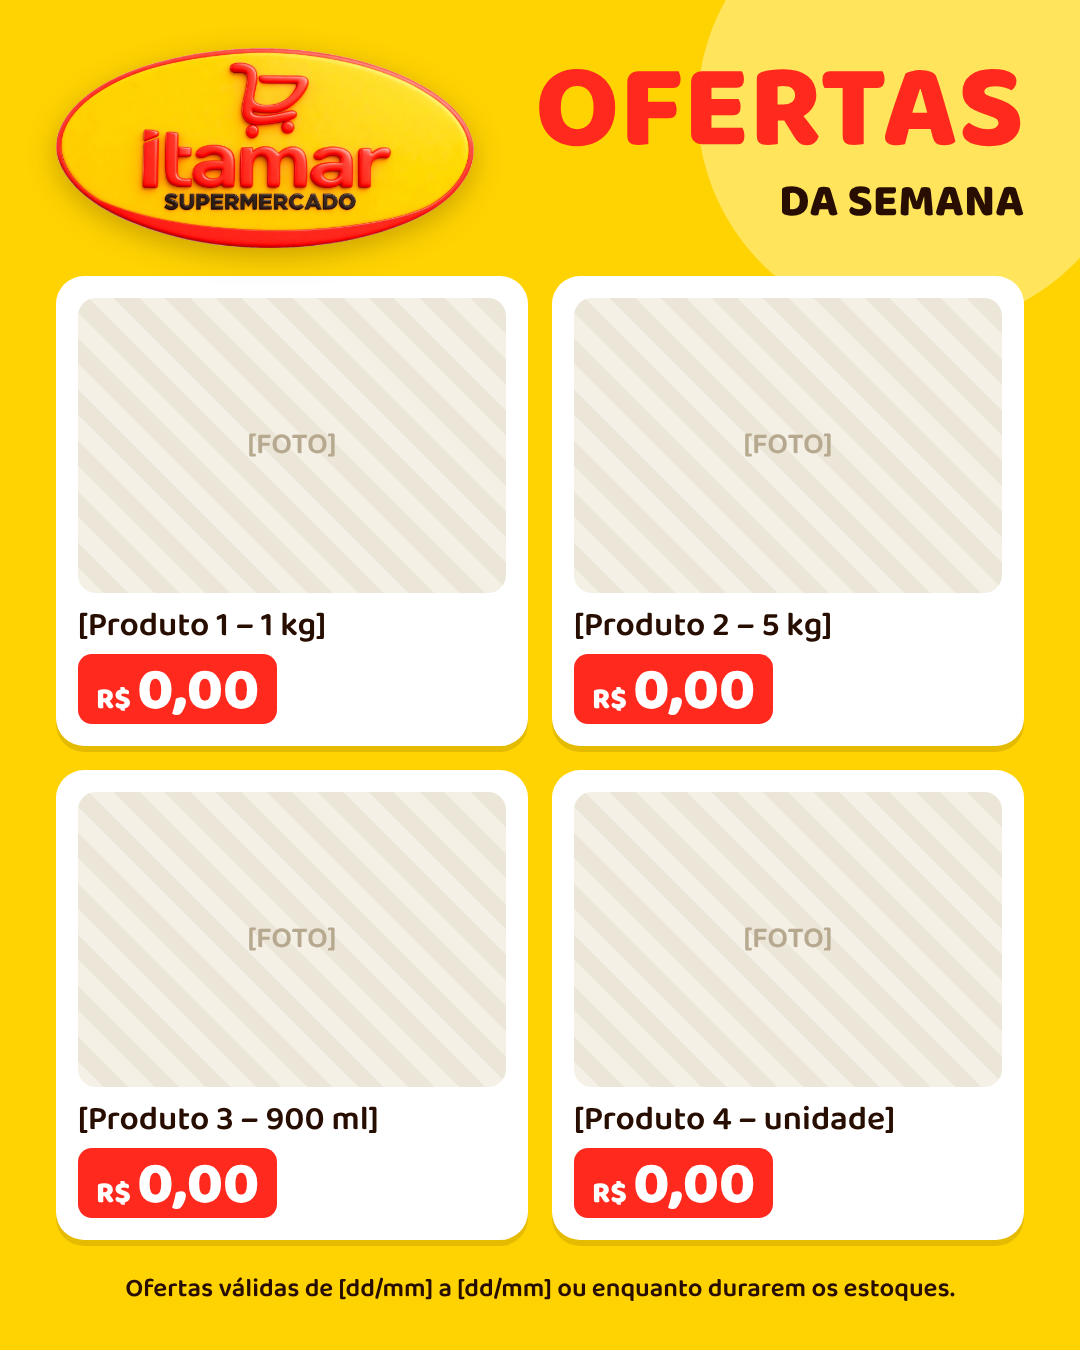
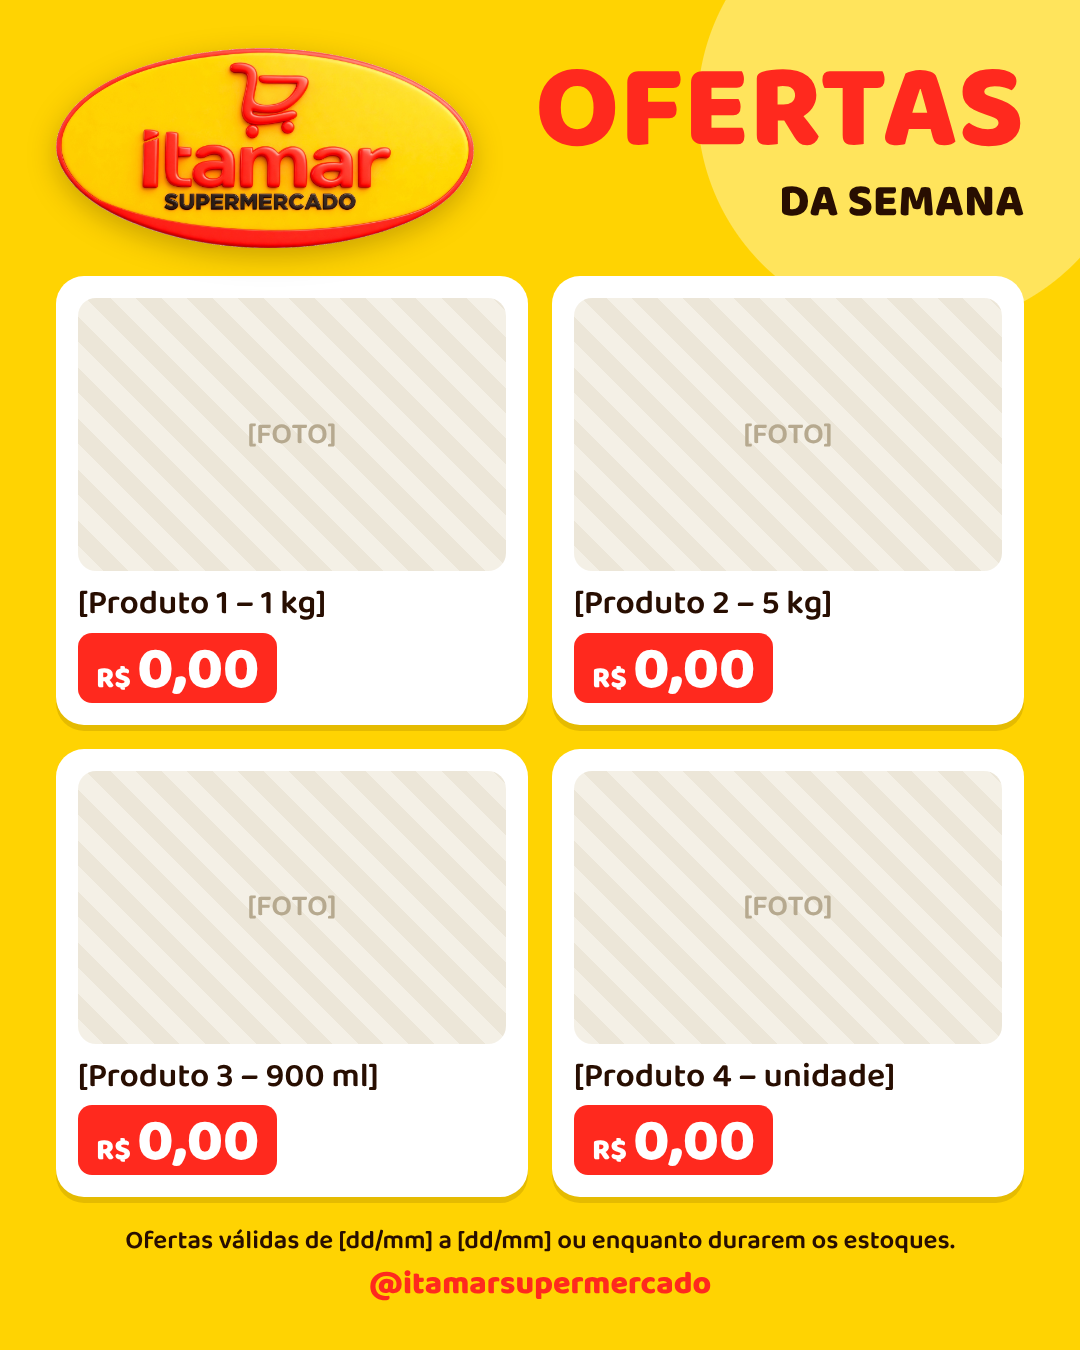
Instagram da Prefeitura e do Itamar nos briefs e modelos
Claude-Session: https://claude.ai/code/session_01RAcsiDedBFiSL89ewa6Bxz

diff --git a/clientes/itamar-supermercado/modelos/card-ofertas.html b/clientes/itamar-supermercado/modelos/card-ofertas.html
@@ -15,7 +15,8 @@ body{width:1080px;height:1350px;background:var(--amarelo);font-family:"Baloo 2",
 .nome{font:600 34px/1.1 "Baloo 2";margin-top:14px}
 .preco{align-self:flex-start;margin-top:10px;background:var(--vermelho);color:#fff;border-radius:14px;padding:4px 18px 0;font:800 60px/1.1 "Baloo 2"}
 .preco small{font-size:30px;margin-right:6px}
-.rod{text-align:center;font:600 26px "Baloo 2"}
+.rod{text-align:center;font:600 26px/1.3 "Baloo 2"}
+.arroba{font:800 32px "Baloo 2";color:var(--vermelho)}
 </style>
 <div class="top"><img src="../identidade/logo-itamar-3d-transparente.png" alt=""><div class="titulo"><b>OFERTAS</b><span>DA SEMANA</span></div></div>
 <div class="grid">
@@ -24,4 +25,4 @@ body{width:1080px;height:1350px;background:var(--amarelo);font-family:"Baloo 2",
   <div class="p"><div class="foto">[FOTO]</div><div class="nome">[Produto 3 – 900 ml]</div><div class="preco"><small>R$</small>0,00</div></div>
   <div class="p"><div class="foto">[FOTO]</div><div class="nome">[Produto 4 – unidade]</div><div class="preco"><small>R$</small>0,00</div></div>
 </div>
-<p class="rod">Ofertas válidas de [dd/mm] a [dd/mm] ou enquanto durarem os estoques.</p>
+<p class="rod">Ofertas válidas de [dd/mm] a [dd/mm] ou enquanto durarem os estoques.<br><b class="arroba">@itamarsupermercado</b></p>

diff --git a/clientes/prefeitura-santanopolis/modelos/card-comunicado.html b/clientes/prefeitura-santanopolis/modelos/card-comunicado.html
@@ -27,4 +27,4 @@ footer{background:var(--azul);color:#fff;padding:30px 72px;display:flex;justify-
     <div><b>Local</b><span>[Endereço ou órgão]</span></div>
   </section>
 </main>
-<footer><span>[site da prefeitura]</span><span>[@perfil oficial]</span></footer>
+<footer><span>[site da prefeitura]</span><span>@pmssantanopolis</span></footer>

diff --git a/clientes/prefeitura-santanopolis/brief.md b/clientes/prefeitura-santanopolis/brief.md
@@ -2,7 +2,7 @@
 
 - Nome oficial: Prefeitura Municipal de Santanópolis (BA) — slogan "Ao lado do povo"
 - Responsável pelo contato / aprovação:
-- Redes sociais (@):
+- Redes sociais (@): Instagram @pmssantanopolis
 - Cores oficiais (HEX): Azul institucional `#002F67` (único); apoio: `#1D4F8F`, fundo claro `#E7EEF8`, branco
 - Fontes usadas nos modelos: Exo 2 (títulos, próxima ao logo) + Inter (texto)
 - Arquivos de marca em `identidade/`: `logo-prefeitura-horizontal.jpg` (original), `logo-prefeitura-azul-transparente.png`, `logo-prefeitura-branco.png`

diff --git a/clientes/itamar-supermercado/brief.md b/clientes/itamar-supermercado/brief.md
@@ -2,7 +2,7 @@
 
 - Nome oficial: Itamar Supermercado
 - Responsável pelo contato / aprovação:
-- Redes sociais (@):
+- Redes sociais (@): Instagram @itamarsupermercado
 - Cores oficiais (HEX): Amarelo `#FFD302`, vermelho `#FF291E`, marrom `#280E01`
 - Fontes usadas nos modelos: Baloo 2 800/600 (arredondada, combina com o logo)
 - Arquivos de marca em `identidade/`: `logo-itamar-3d.jpg` (original 3D), `logo-itamar-3d-transparente.png`. Falta versão vetorial/plana para usos pequenos.
